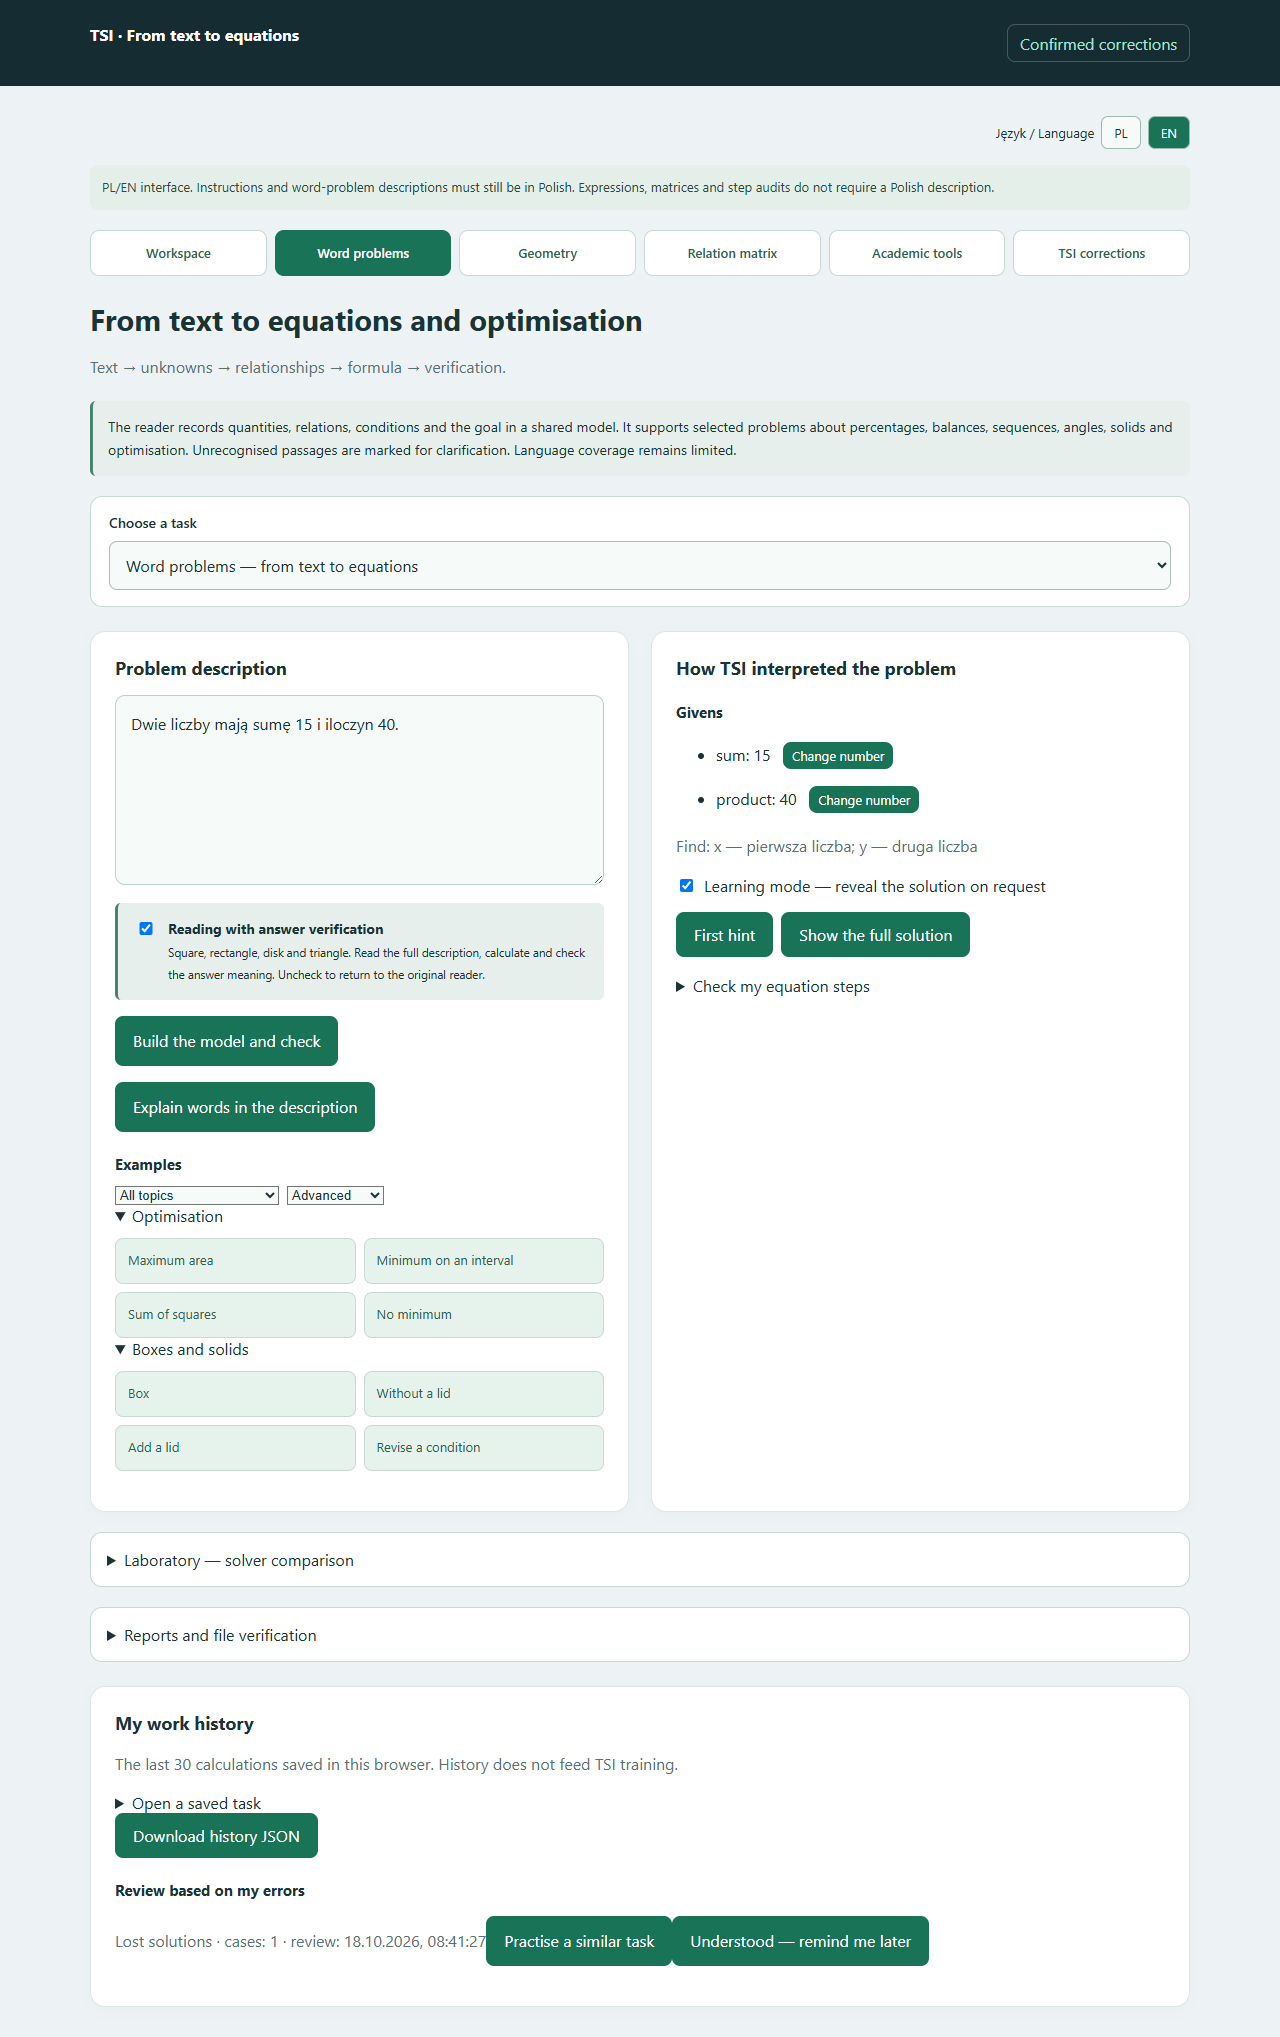
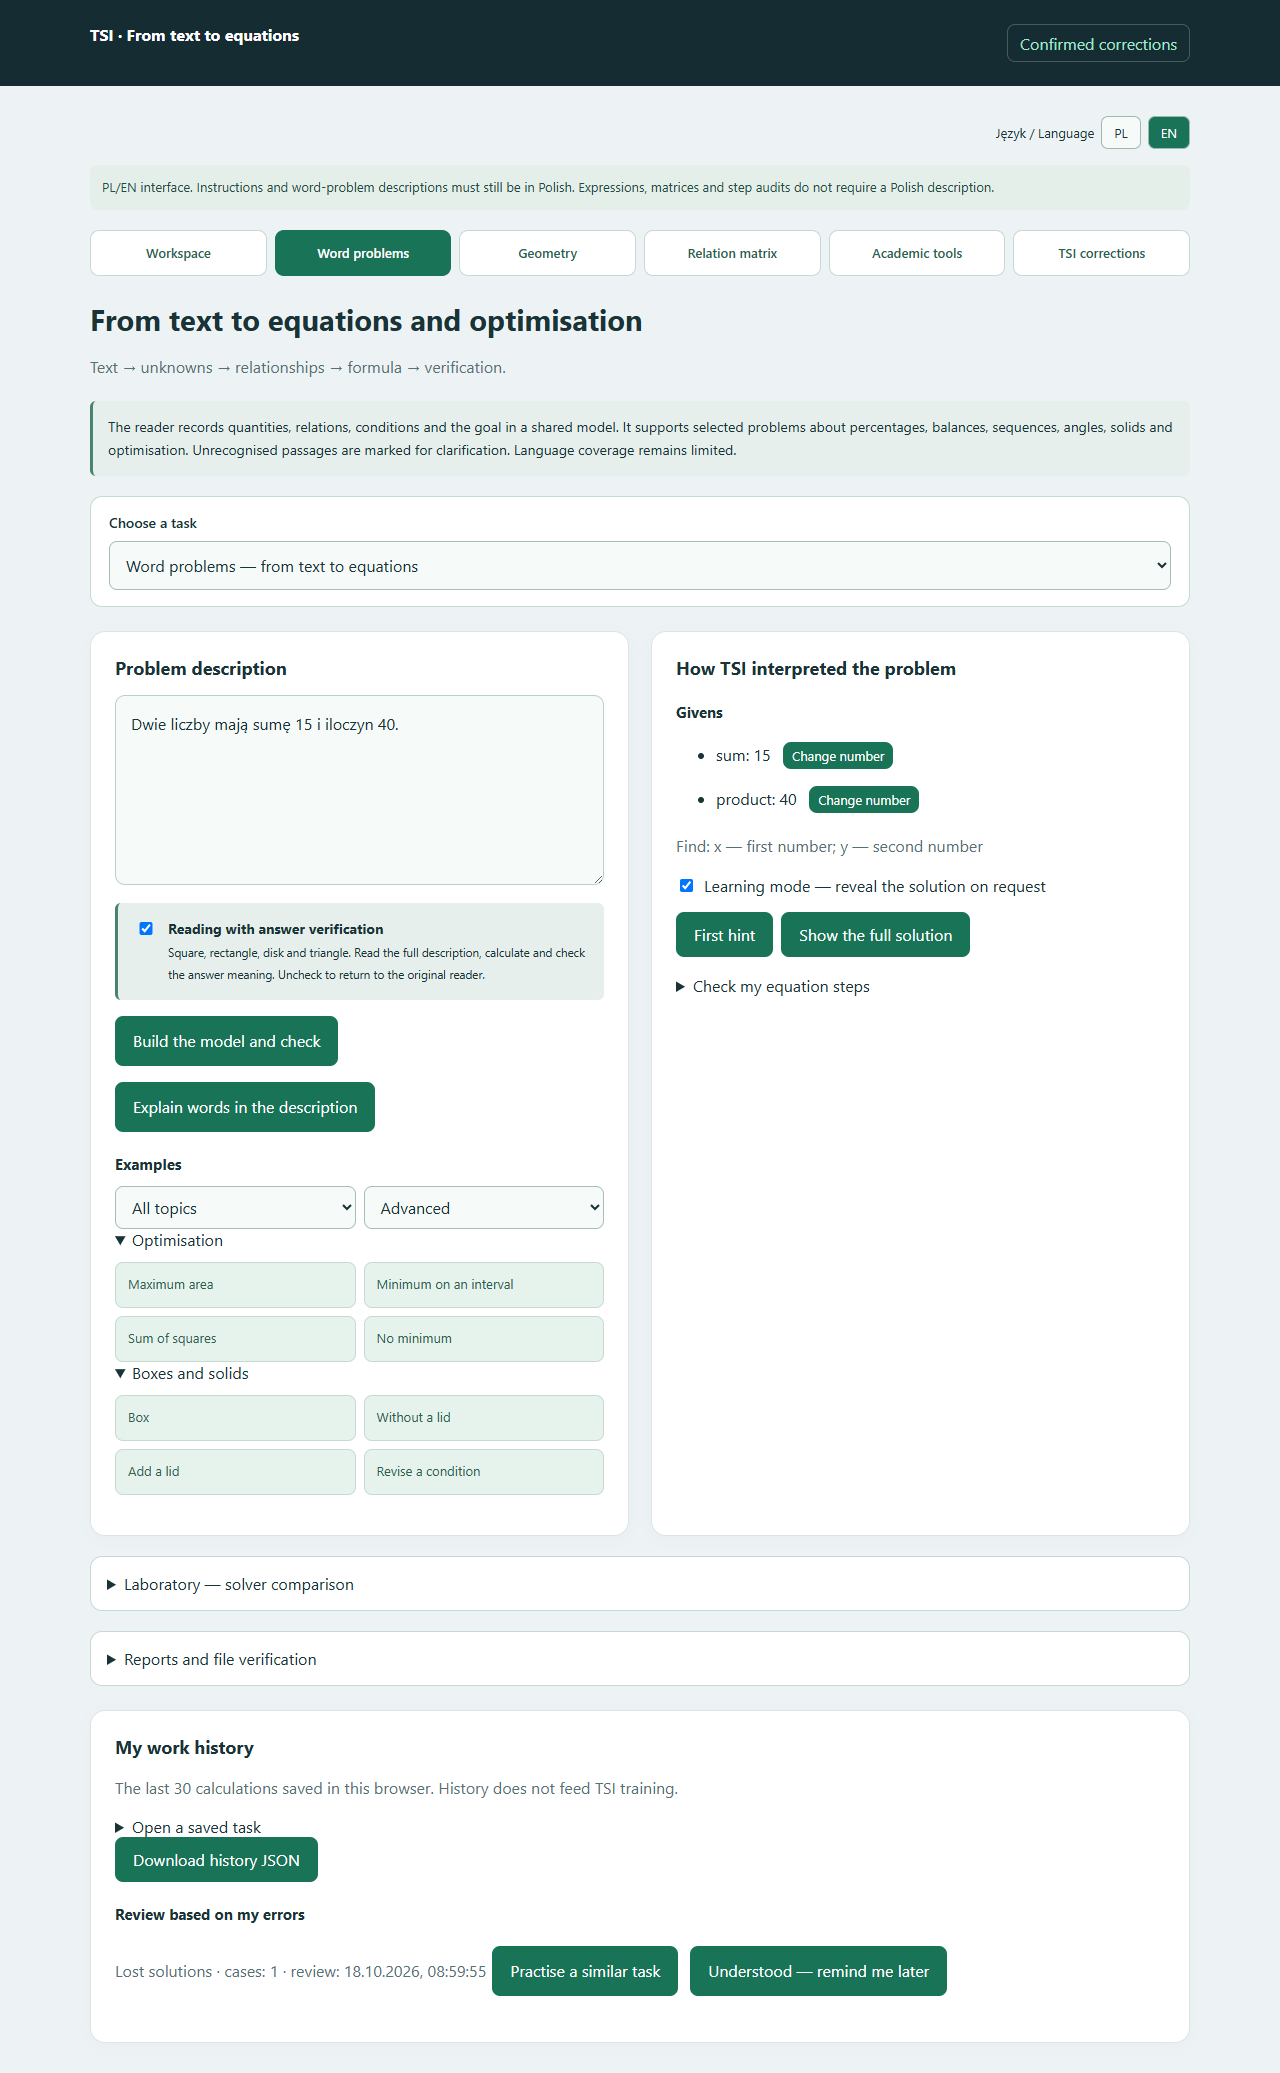
docs: confirm portable archive update and refresh interface preview

diff --git a/docs/WARSZTAT_NAUKI_2026-10-18.md b/docs/WARSZTAT_NAUKI_2026-10-18.md
@@ -12,4 +12,4 @@ Powtórki wynikają z wykrytych błędów własnego rozwiązania. Terminy są wi
 
 Przykłady pogrupowano tematycznie i dodano filtr trudności. Raporty, porównanie solverów i ustawienia nauki zwinięto w sekcje. Rysunki zadań i zapisanych obliczeń korzystają ze wspólnych funkcji rysujących.
 
-Weryfikacja: 18 testów sprawdzania własnej pracy oraz testy interpretacji, podpowiedzi i jednoznacznej zmiany liczby. Zmiana obejmuje aplikację źródłową i rozpakowaną wersję portable; archiwum ZIP wymaga osobnego przebudowania.
+Weryfikacja: 18 testów sprawdzania własnej pracy oraz testy interpretacji, podpowiedzi i jednoznacznej zmiany liczby. Zmiana obejmuje aplikację źródłową, rozpakowaną wersję portable i pełne archiwum ZIP z kodem oraz modelami, zaktualizowane 18.10.2026.
